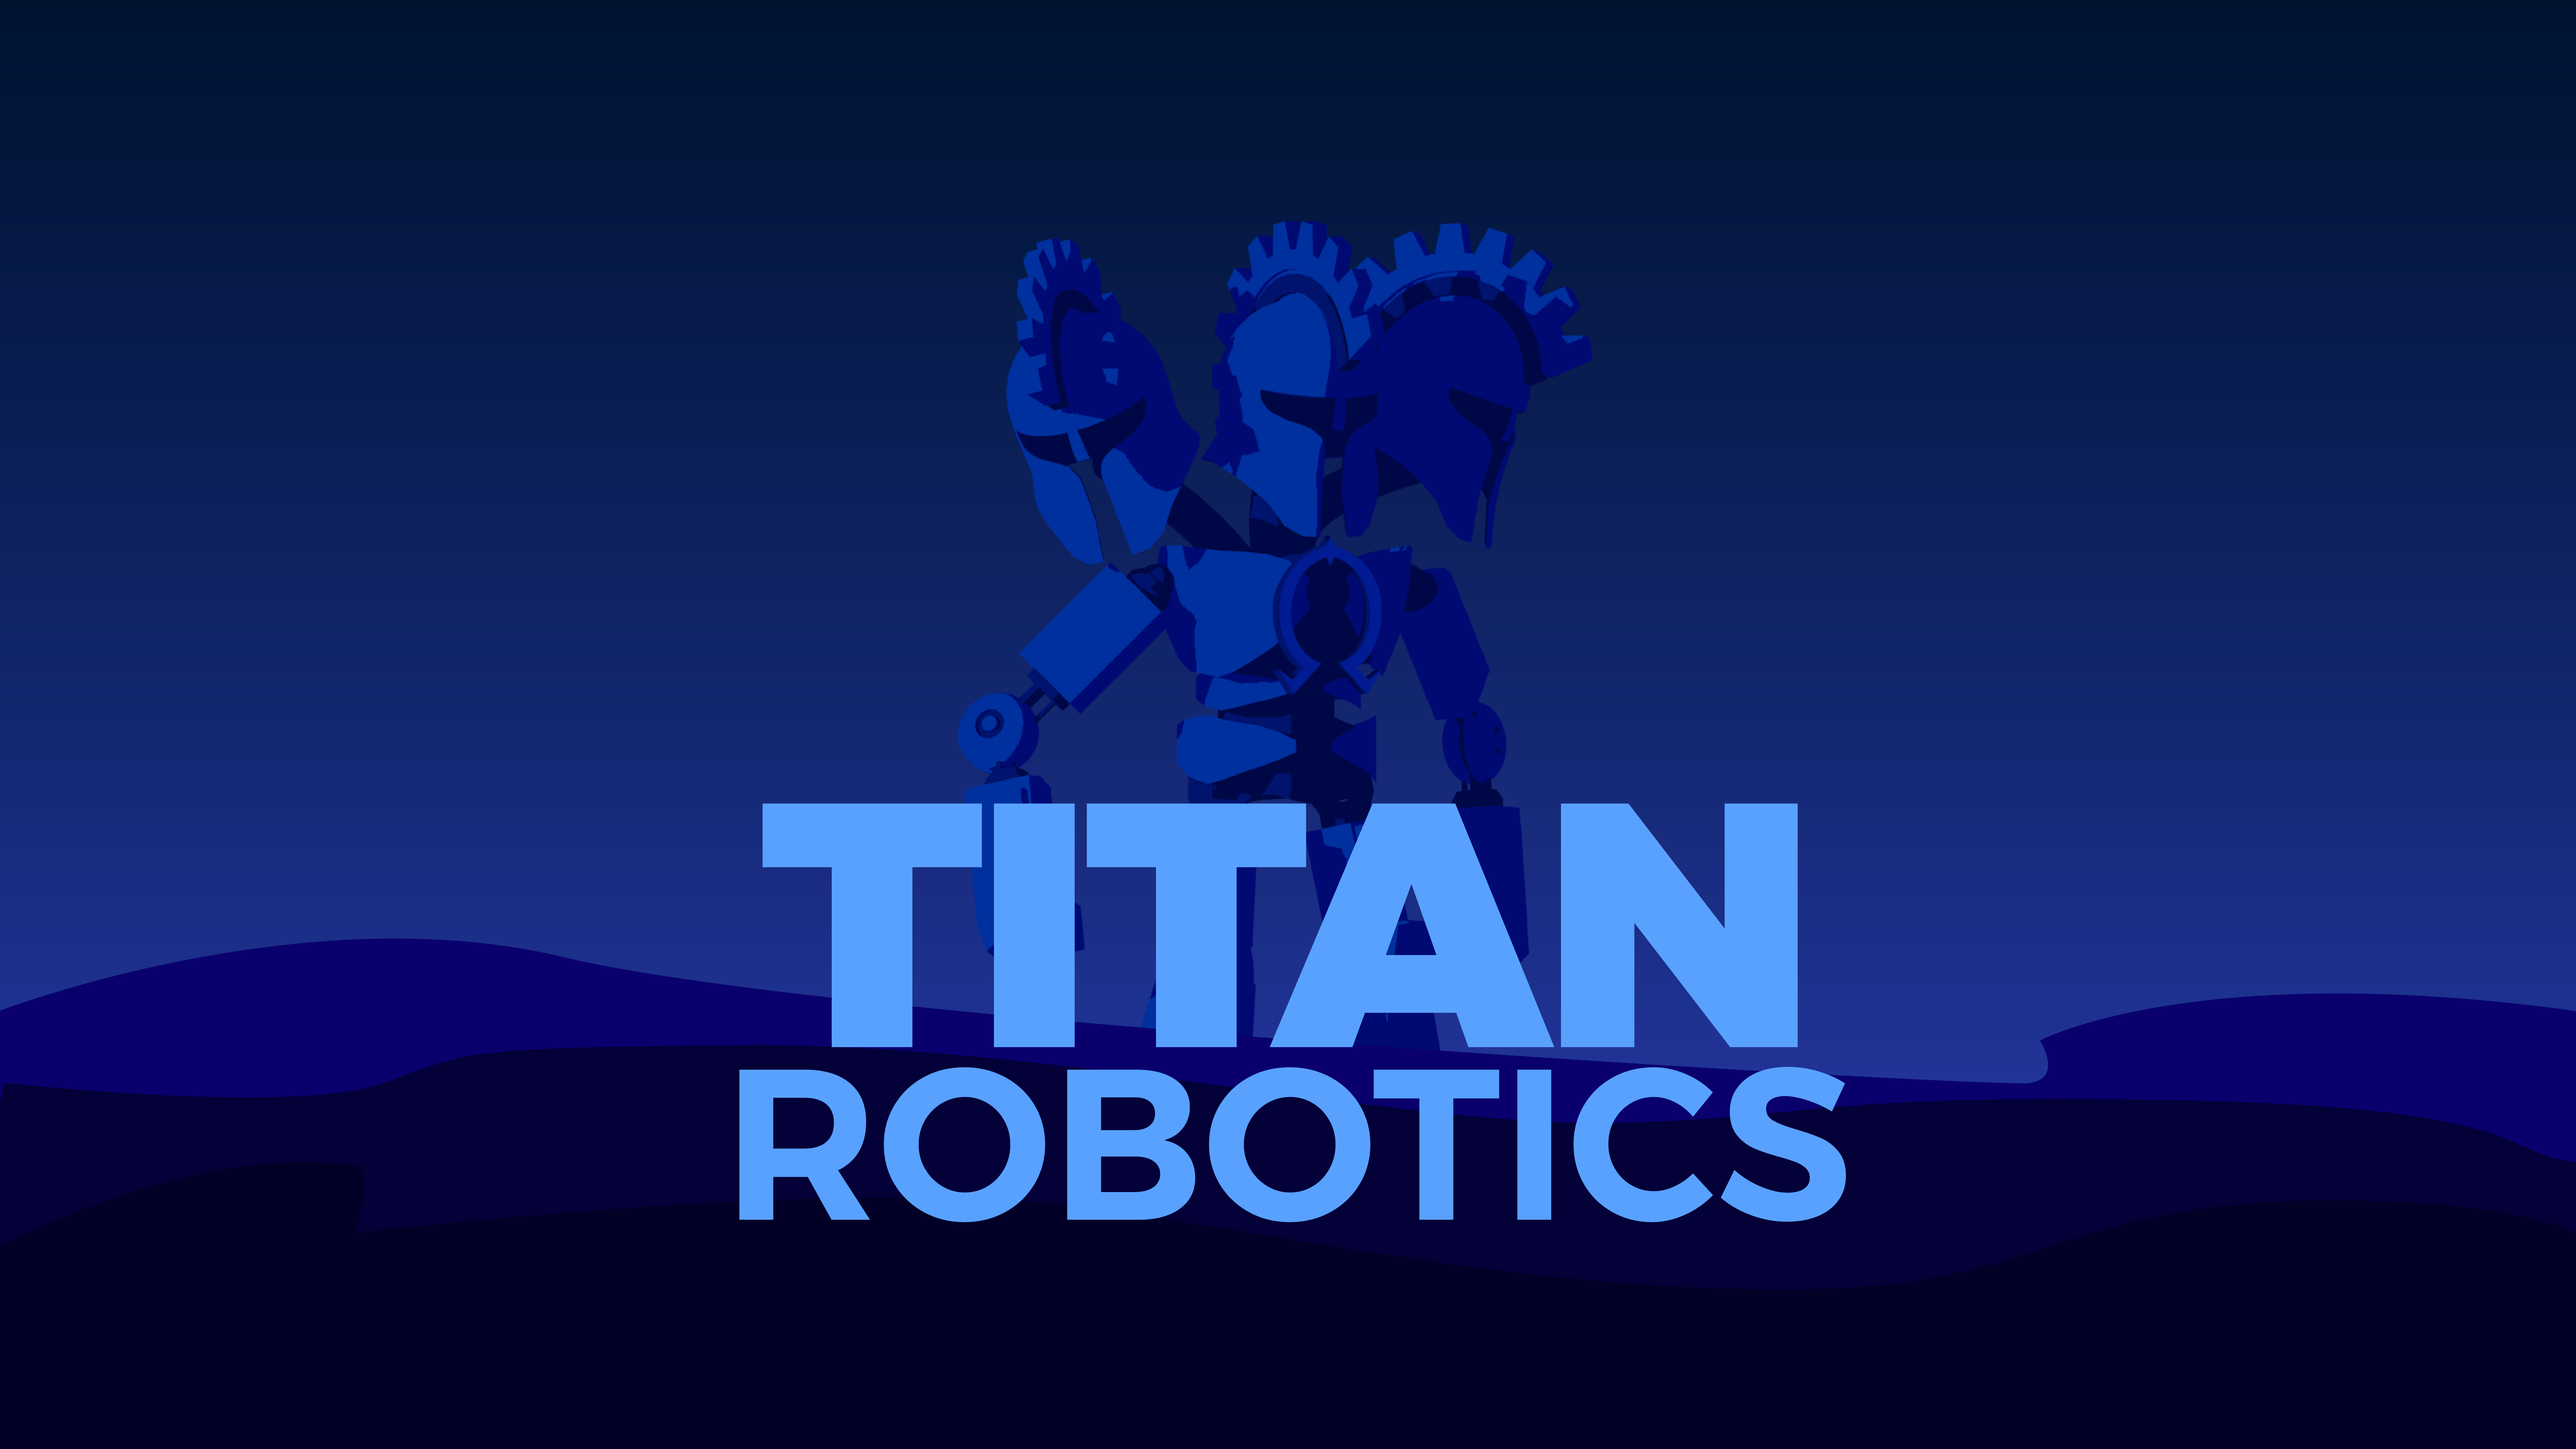
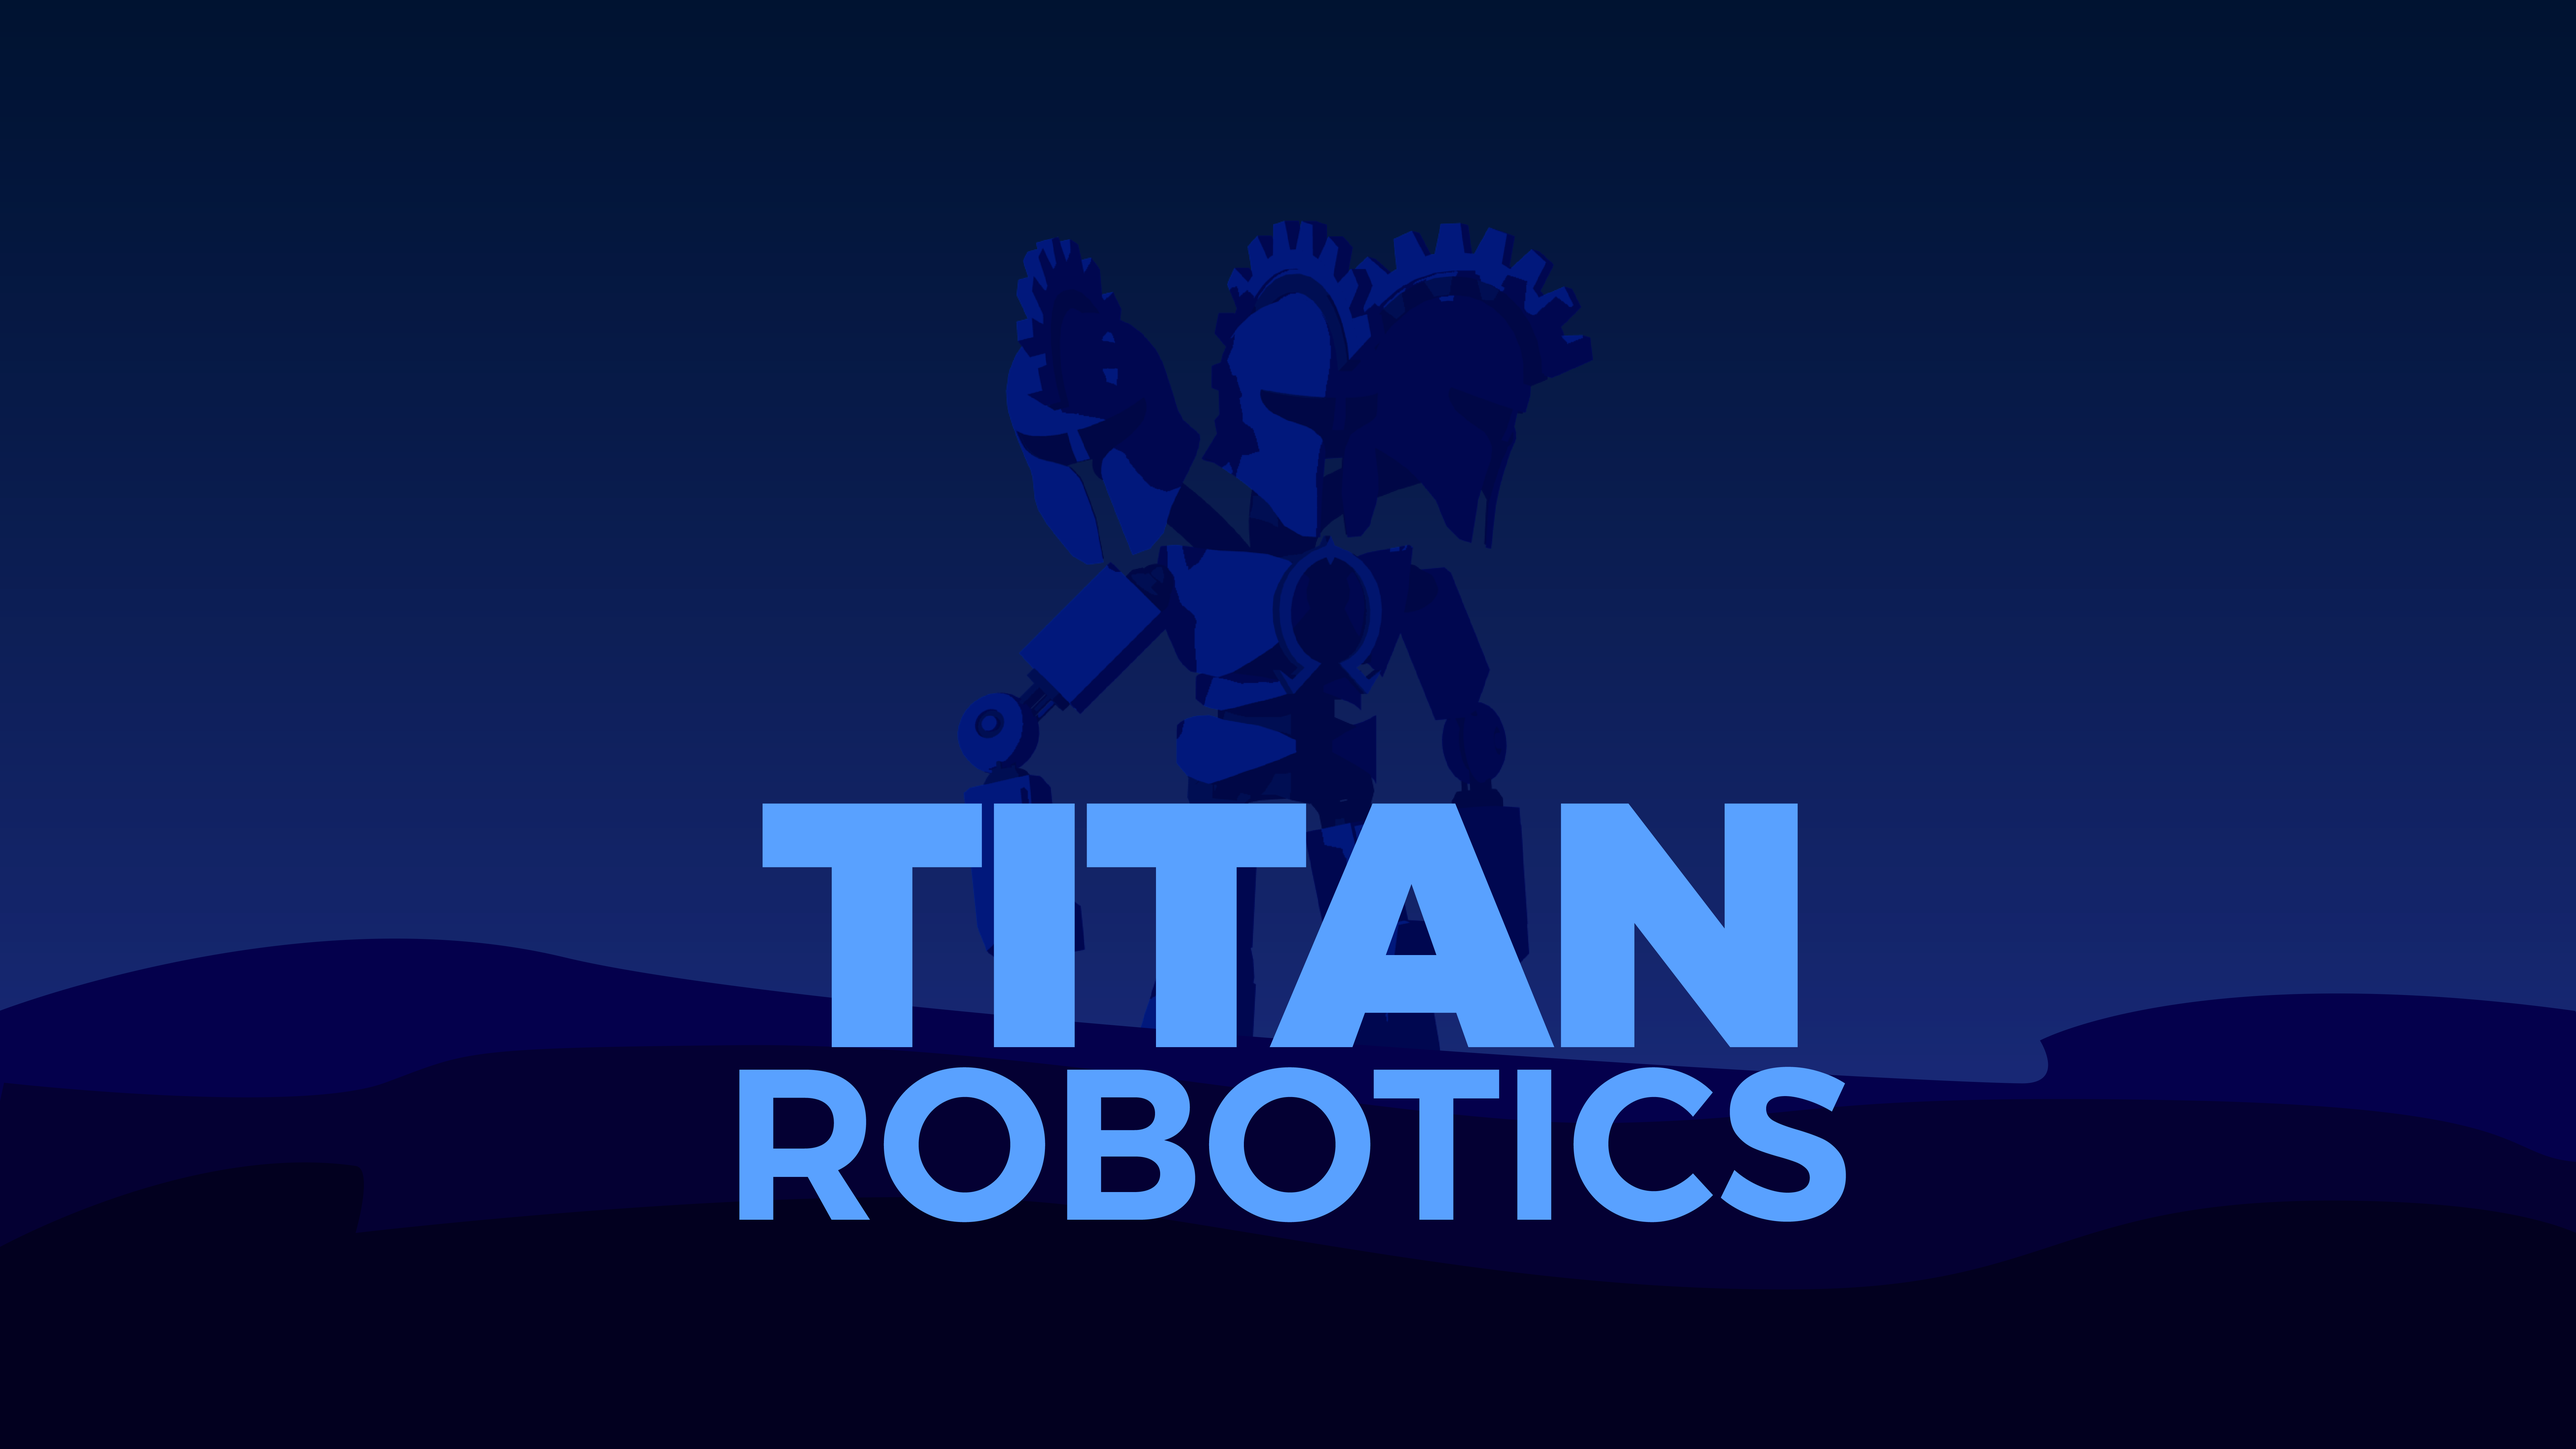
g

Changed region(s): [[0.0, 0.1556, 1.0, 0.8089]]

diff --git a/_site/main.css b/_site/main.css
@@ -98,7 +98,7 @@ a {
 .home-cover {
     width: 100%;
     height: 100vh;
-    background:  url(img/home/BannerWidescreen-01.png);
+    background:  url(img/home/Banner.png);
     background-size: cover;
     background-position: bottom;
 }
